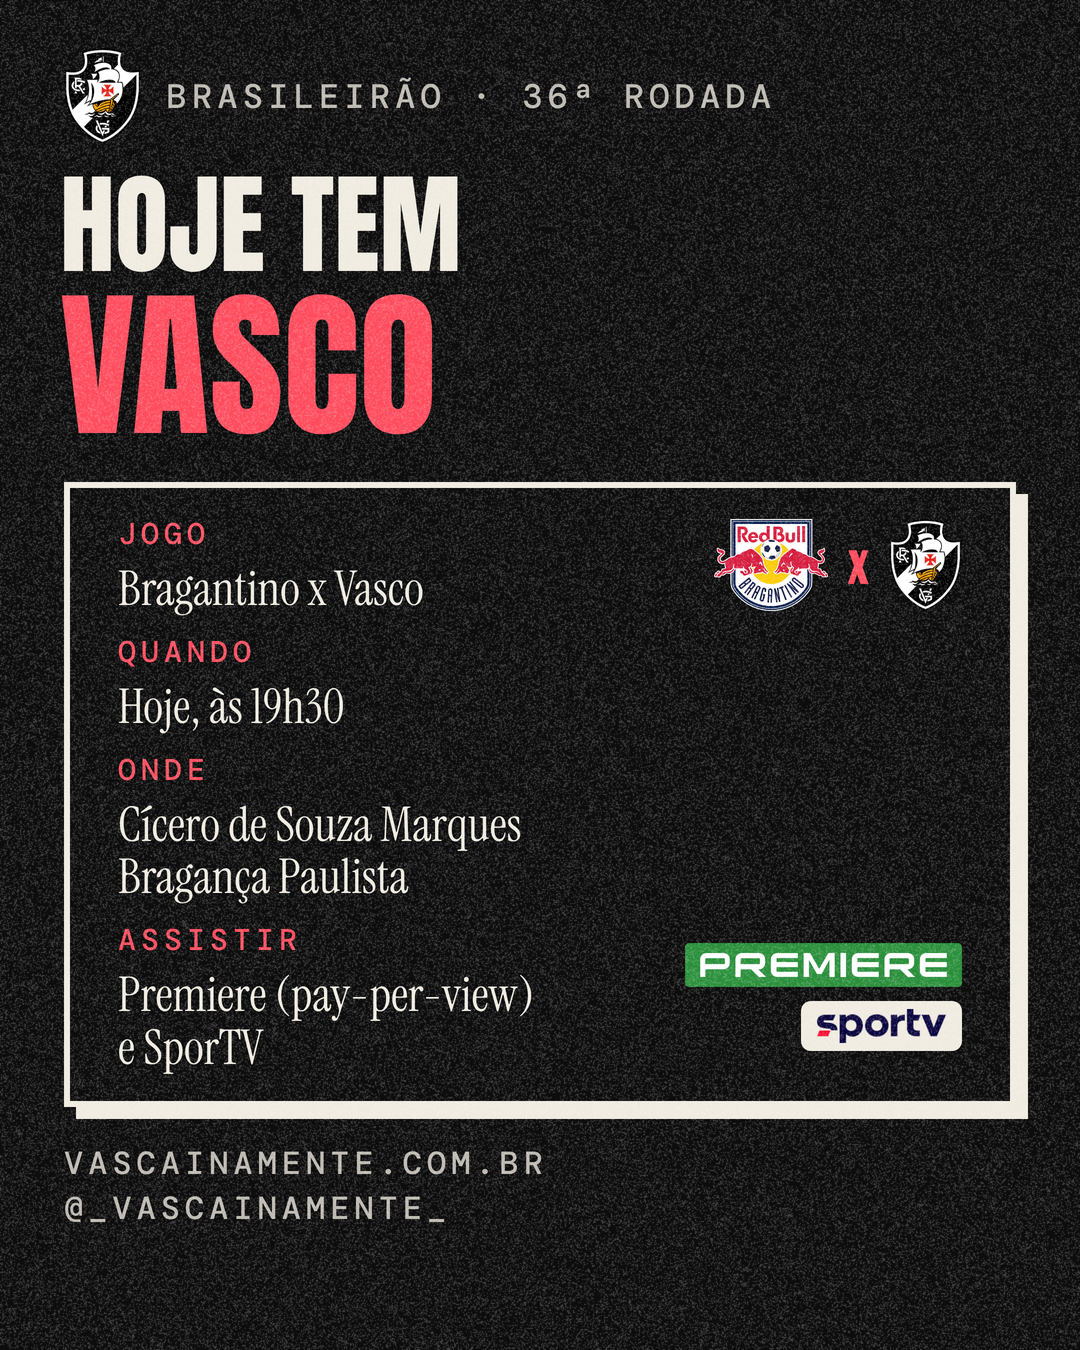
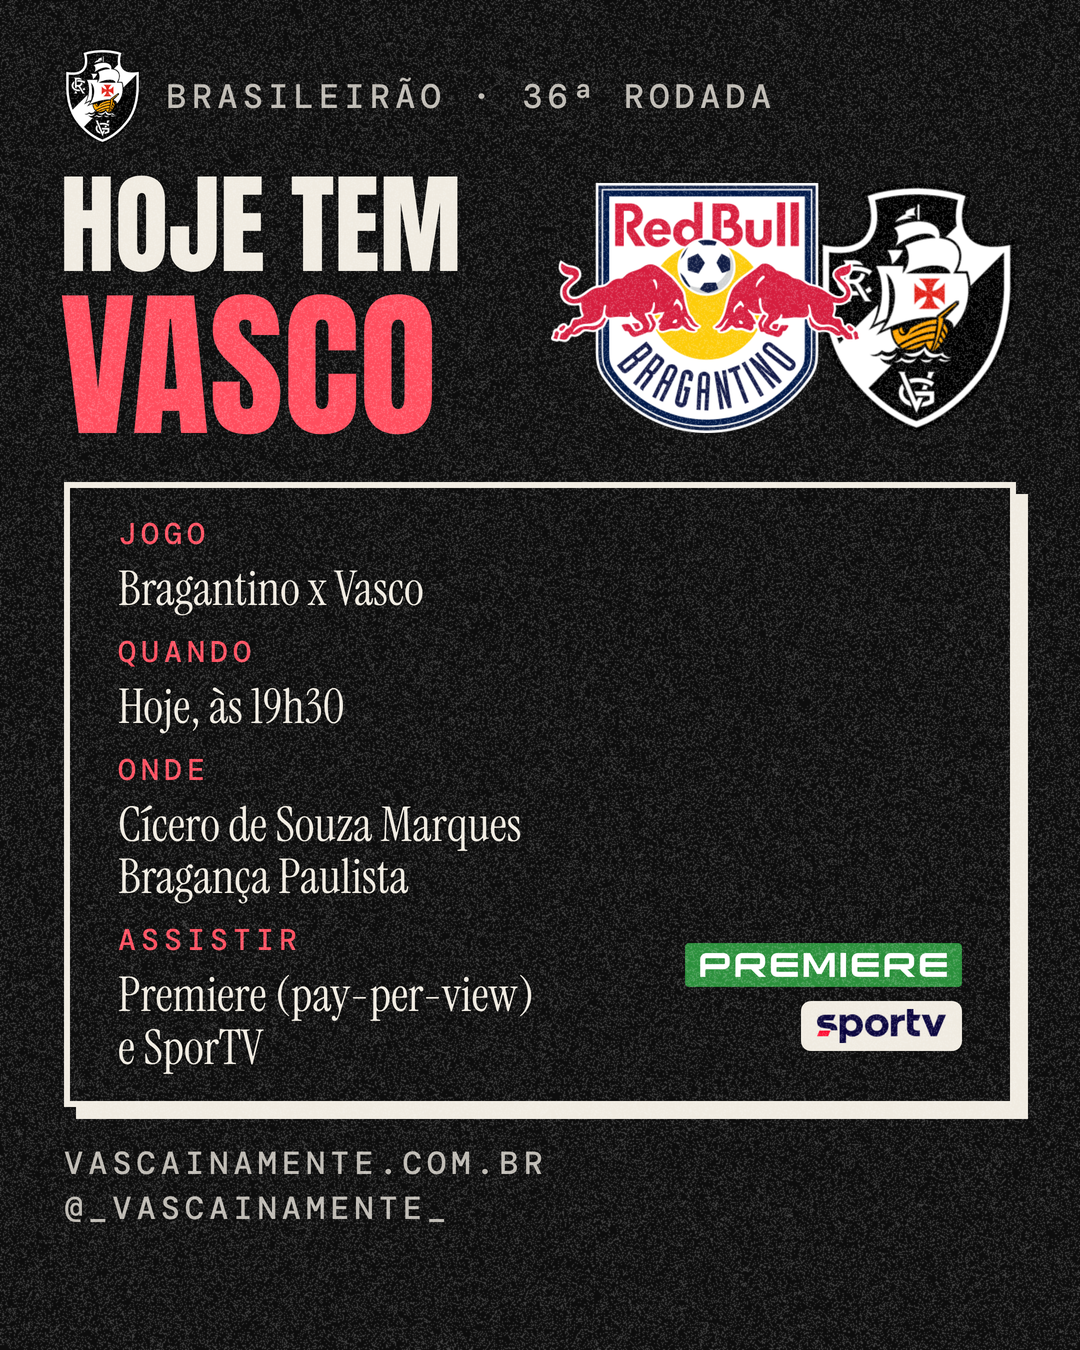
feat(social): escudos grandes ao lado do título, mandante sobrepondo o visitante
Claude-Session: https://claude.ai/code/session_01Rx5nm8SbrKz53trgeNCrQm

Changed region(s): [[0.5194, 0.1244, 0.9472, 0.3422], [0.6417, 0.3733, 0.8861, 0.4667]]

diff --git a/scripts/social_art/arte_info.py b/scripts/social_art/arte_info.py
@@ -4,7 +4,7 @@
 
 Saída: story.png e feed.png. O JSON tem: rotulo, titulo (duas linhas) e blocos (de 1 a 4, cada um com
 "k" e "v", onde "v" é uma lista de linhas, e, se quiser, "logos": lista com nomes de scripts/social_art/logos/,
-"vasco" (escudo atual, de public/images) ou "x"). O escudo do cabeçalho vem de public/images. Os textos precisam de revisão
+"vasco" (escudo atual, de public/images) ou "x"). O escudo do cabeçalho vem de public/images. "escudos" (opcional, no topo do JSON) são os dois escudos ao lado do título: o primeiro é o mandante e fica por cima do segundo. Os textos precisam de revisão
 de português antes de ir ao Camilo.
 """
 from __future__ import annotations
@@ -25,10 +25,10 @@ PLACA = {"sportv"}
 
 # medidas de cada formato (px). A coluna começa em "topo" e os blocos vão um abaixo do outro, com os espaços abaixo.
 FORMATOS = {
-    "story": dict(h=1920, topo=170, a=150, b=200, gap_b=8, head_h1=30, h1_painel=56, painel_foot=44,
-                  pad="34px 48px", entre=26, v=54, escudo=132, logo_h=60, limite=1670),
+    "story": dict(h=1920, topo=170, a=140, b=200, gap_b=8, head_h1=30, h1_painel=56, painel_foot=44,
+                  pad="34px 48px", entre=26, v=54, escudo=132, escudo_g=215, sobra=44, logo_h=52, limite=1670),
     "feed": dict(h=1350, topo=48, a=110, b=160, gap_b=6, head_h1=26, h1_painel=36, painel_foot=34,
-                 pad="26px 48px", entre=16, v=48, escudo=92, logo_h=44, limite=1350),
+                 pad="26px 48px", entre=16, v=48, escudo=92, escudo_g=250, sobra=44, logo_h=44, limite=1350),
 }
 
 CSS = """
@@ -43,13 +43,18 @@ body{width:1080px;height:%(h)spx;background:var(--bg);position:relative;overflow
 #col{position:absolute;left:64px;right:64px;top:%(topo)spx}
 #head{display:flex;align-items:center;gap:26px;font-size:34px;color:var(--mut)}
 #head img{height:96px}
-h1{margin-top:%(head_h1)spx;margin-left:-4px;font-family:an,Impact,sans-serif;font-weight:400;text-transform:uppercase;line-height:1}
+#topo{position:relative;margin-top:%(head_h1)spx}
+h1{margin-left:-4px;font-family:an,Impact,sans-serif;font-weight:400;text-transform:uppercase;line-height:1}
 h1 .a{display:block;font-size:%(a)spx;color:var(--cr)}
 h1 .b{display:block;font-size:%(b)spx;color:var(--redt);margin-top:%(gap_b)spx}
 #panel{margin-top:%(h1_painel)spx;width:952px;border:6px solid var(--cr);box-shadow:12px 12px 0 var(--cr);background:var(--bg);padding:%(pad)s}
 .row+.row{margin-top:%(entre)spx}
 .row .k{font-size:30px;color:var(--redt)}
 .row .v{font-size:%(v)spx;line-height:1.1;margin-top:10px}
+.escudos{position:absolute;right:0;top:50%%;transform:translateY(-50%%);display:flex;align-items:center}
+.escudos img{height:%(escudo_g)spx;width:auto;display:block}
+.escudos img+img{margin-left:-%(sobra)spx;position:relative;z-index:0}
+.escudos img:first-child{position:relative;z-index:2}
 .row.com-logos{display:flex;align-items:center;justify-content:space-between;gap:24px}
 .logos{display:flex;align-items:center;gap:20px;flex:none}
 .logos.coluna{flex-direction:column;align-items:flex-end;gap:14px}
@@ -72,6 +77,9 @@ def validar(d: dict) -> None:
         raise ValueError("o título tem de ter duas linhas")
     if not 1 <= len(d["blocos"]) <= 4:
         raise ValueError("o painel aceita de 1 a 4 blocos")
+    for nome in d.get("escudos", []):
+        if nome != "vasco" and not (LOGOS / f"{nome}.png").exists():
+            raise ValueError(f"escudo não encontrado em scripts/social_art/logos/: {nome}")
     for b in d["blocos"]:
         for nome in b.get("logos", []):
             if nome not in ("x", "vasco") and not (LOGOS / f"{nome}.png").exists():
@@ -98,6 +106,15 @@ def html_logos(nomes: list[str]) -> str:
     return f'<div class="logos{coluna}">{"".join(itens)}</div>'
 
 
+def html_escudos(nomes: list[str]) -> str:
+    """Escudos ao lado do título. O primeiro (mandante) fica por cima do segundo."""
+    if not nomes:
+        return ""
+    arq = {"vasco": ESCUDO}
+    imgs = "".join(f'<img src="file://{arq.get(n, LOGOS / (n + ".png"))}" alt="">' for n in nomes)
+    return f'<div class="escudos">{imgs}</div>'
+
+
 def montar(d: dict, fmt: dict) -> str:
     def bloco(b: dict) -> str:
         texto = (f'<div><div class="k mono">{esc(b["k"])}</div>'
@@ -111,7 +128,7 @@ def montar(d: dict, fmt: dict) -> str:
                    logo_h_placa=int(fmt["logo_h"] * 0.78), xis=int(fmt["escudo"] * 0.5))
     return (f'<!doctype html><html lang="pt-BR"><head><meta charset="utf-8"><style>{CSS % medidas}</style></head><body>'
             f'<div id="col"><div id="head" class="mono"><img src="file://{ESCUDO}" alt=""><span>{esc(d["rotulo"])}</span></div>'
-            f'<h1><span class="a">{esc(d["titulo"][0])}</span><span class="b">{esc(d["titulo"][1])}</span></h1>'
+            f'<div id="topo"><h1><span class="a">{esc(d["titulo"][0])}</span><span class="b">{esc(d["titulo"][1])}</span></h1>{html_escudos(d.get("escudos", []))}</div>'
             f'<div id="panel">{linhas}</div>'
             f'<div id="foot" class="mono">vascainamente.com.br<br>@_vascainamente_</div></div><div class="grain"></div></body></html>')
 

diff --git a/scripts/test_arte_info.py b/scripts/test_arte_info.py
@@ -59,6 +59,17 @@ class Conferencia(unittest.TestCase):
 
 
 class Logos(unittest.TestCase):
+    def test_escudo_inexistente_bloqueia(self):
+        d = base()
+        d["escudos"] = ["time-que-nao-existe", "vasco"]
+        with self.assertRaises(ValueError):
+            ai.validar(d)
+
+    def test_escudos_do_topo_passam(self):
+        d = base()
+        d["escudos"] = ["bragantino", "vasco"]
+        ai.validar(d)
+
     def test_logo_inexistente_bloqueia(self):
         d = base()
         d["blocos"][0]["logos"] = ["time-que-nao-existe"]

diff --git a/docs/PADRAO-ARTES.md b/docs/PADRAO-ARTES.md
@@ -21,6 +21,7 @@ O que segue vale para as artes de informação. Os modelos prontos (PNG para ver
 
 ## Estrutura (de cima para baixo)
 1. Cabeçalho: escudo + rótulo (ex.: "Brasileirão · 36ª rodada").
+   Em jogo do dia, os dois escudos grandes ficam fora do painel, ao lado do título, com o do mandante por cima do outro, sobrepondo de leve (campo `escudos` do JSON, mandante primeiro). Logos de canais (Premiere, SporTV) ficam à direita do bloco Assistir; logo escura precisa de placa clara.
 2. Título em duas linhas: "Hoje tem" em creme e "Vasco" em vermelho, bem grandes.
 3. Painel com borda creme de 6px e sombra dura de 12px. Dentro, um bloco por informação: rótulo em vermelho (DM Mono) e o texto embaixo em letra grande (Instrument Serif, 52 a 58px).
 4. Rodapé: vascainamente.com.br e @_vascainamente_.
